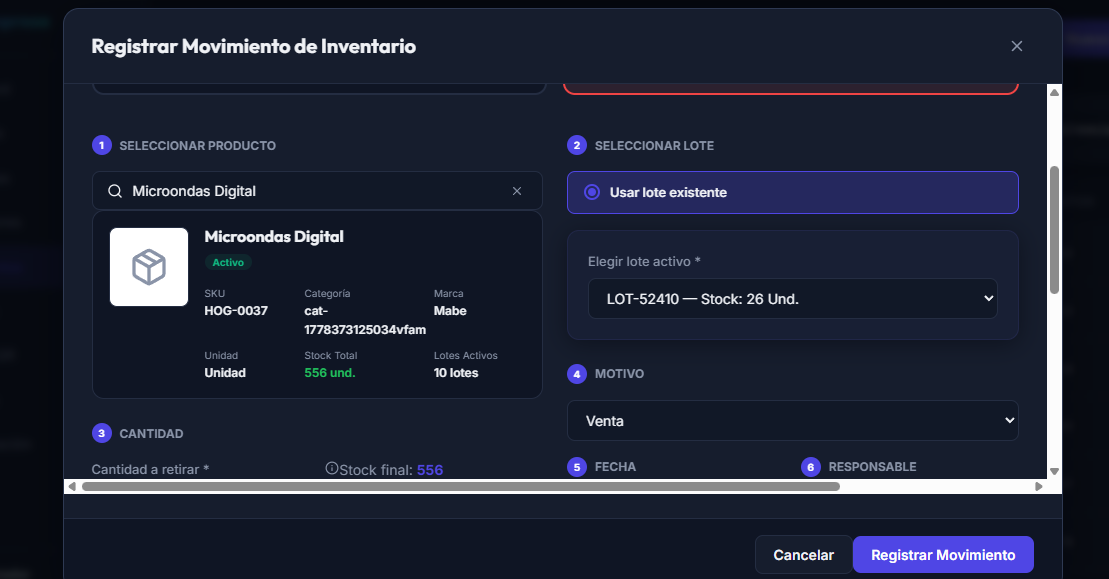
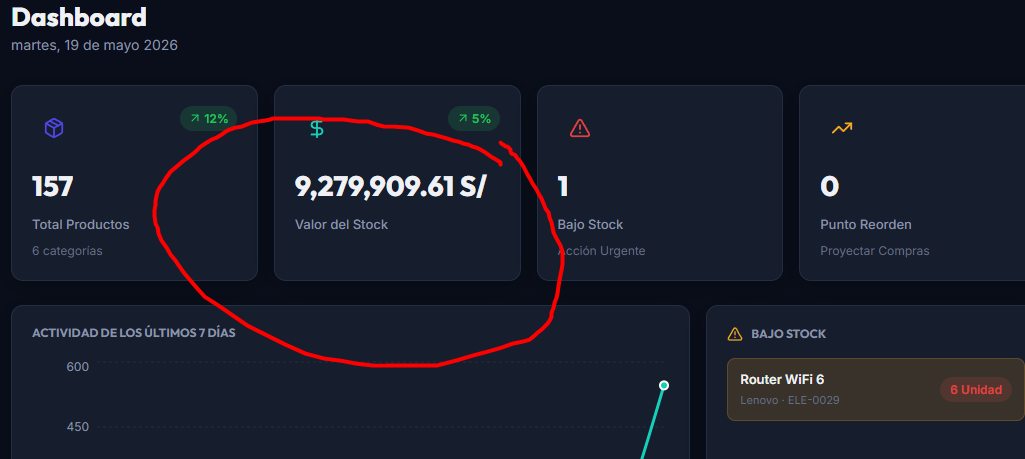
moneda

diff --git a/src/pages/Reports.jsx b/src/pages/Reports.jsx
@@ -43,7 +43,7 @@ const CustomTooltip = ({ active, payload, label }) => {
           {payload.map(p => (
             <p key={p.name} className="tooltip-item">
               <span className="dot" style={{ background: p.color }}></span>
-              {p.name}: <span className="val">{p.name.includes('Valor') || p.name.includes('Precio') ? `${p.value.toLocaleString('es-PE')} S/` : p.value}</span>
+              {p.name}: <span className="val">{p.name.includes('Valor') || p.name.includes('Precio') ? `S/ ${p.value.toLocaleString('es-PE')}` : p.value}</span>
             </p>
           ))}
         </div>
@@ -354,7 +354,7 @@ export default function Reports() {
           </div>
           <div className="kpi-info">
             <span className="kpi-label">Valor del Inventario</span>
-            <span className="kpi-value">{totalValue.toLocaleString('es-PE')} S/</span>
+            <span className="kpi-value">S/ {totalValue.toLocaleString('es-PE')}</span>
             <span className="kpi-trend text-success">Total acumulado</span>
           </div>
         </div>
@@ -436,7 +436,7 @@ export default function Reports() {
               <BarChart data={stockByCategory} margin={{ top: 10, right: 10, left: -10, bottom: 0 }}>
                 <CartesianGrid strokeDasharray="3 3" stroke="var(--border)" vertical={false} />
                 <XAxis dataKey="name" tick={{ fill: 'var(--text-muted)', fontSize: 11 }} axisLine={false} tickLine={false} />
-                <YAxis tick={{ fill: 'var(--text-muted)', fontSize: 11 }} axisLine={false} tickLine={false} tickFormatter={v => `${v > 1000 ? (v/1000).toFixed(0)+'k' : v} S/`} />
+                <YAxis tick={{ fill: 'var(--text-muted)', fontSize: 11 }} axisLine={false} tickLine={false} tickFormatter={v => `S/ ${v > 1000 ? (v/1000).toFixed(0)+'k' : v}`} />
                 <Tooltip content={<CustomTooltip />} />
                 <Bar dataKey="Valor" fill="var(--primary)" radius={[6, 6, 0, 0]}>
                   {stockByCategory.map((_, i) => <Cell key={i} fill={CHART_COLORS[i % CHART_COLORS.length]} />)}
@@ -517,7 +517,7 @@ export default function Reports() {
                       <td className="text-muted">{p.leadTime || 0} días</td>
                       <td className="fw-700 text-primary">{p.effectiveMin} {abreviar(p.unit)}</td>
                       <td className="text-danger fw-700">{missing} {abreviar(p.unit)}</td>
-                      <td className="fw-700">{(missing * p.price).toLocaleString('es-PE')} S/</td>
+                      <td className="fw-700">S/ {(missing * p.price).toLocaleString('es-PE')}</td>
                     </tr>
                   );
                 })}
@@ -565,8 +565,8 @@ export default function Reports() {
                         ) : '—'}
                       </td>
                       <td className="fw-700">{p.totalStock} {abreviar(p.unit)}</td>
-                      <td>{(p.price || 0).toLocaleString('es-PE')} S/</td>
-                      <td className="fw-700 text-danger">{(p.totalStock * p.price).toLocaleString('es-PE')} S/</td>
+                      <td>S/ {(p.price || 0).toLocaleString('es-PE')}</td>
+                      <td className="fw-700 text-danger">S/ {(p.totalStock * p.price).toLocaleString('es-PE')}</td>
                       <td><span className="badge badge-muted">SIN ROTACIÓN</span></td>
                     </tr>
                   );

diff --git a/src/pages/StockMovements.jsx b/src/pages/StockMovements.jsx
@@ -160,10 +160,10 @@ function TicketModal({ ticketData, onClose, shopName }) {
 
               <div style={{ borderTop: '1px double #000', marginTop: '10px', paddingTop: '8px' }}>
                 <div style={{ display: 'flex', justifyContent: 'space-between', fontSize: '11px', marginBottom: '3px' }}>
-                  <span>Subtotal:</span><span>{total.toFixed(2)} S/</span>
+                  <span>Subtotal:</span><span>S/ {total.toFixed(2)}</span>
                 </div>
                 <div style={{ display: 'flex', justifyContent: 'space-between', fontSize: '16px', fontWeight: 900, marginTop: '4px' }}>
-                  <span>TOTAL:</span><span>{total.toFixed(2)} S/</span>
+                  <span>TOTAL:</span><span>S/ {total.toFixed(2)}</span>
                 </div>
               </div>
 
@@ -485,10 +485,10 @@ function MovementModal({ products, suppliers, onSave, onDelete, onClose, editDat
                   <div className="auto-summary-box mt-20">
                     <div className="preview-label mb-12">RESUMEN AUTOMÁTICO</div>
                     <div className="summary-row"><span>Cantidad</span><span className="fw-700">{form.quantity || 0}</span></div>
-                    <div className="summary-row"><span>Precio unitario</span><span>{(parseFloat(form.newBatchPrice) || selectedProductBase?.price || 0).toFixed(2)} S/</span></div>
+                    <div className="summary-row"><span>Precio unitario</span><span>S/ {(parseFloat(form.newBatchPrice) || selectedProductBase?.price || 0).toFixed(2)}</span></div>
                     <div className="summary-total">
                       <span className="total-label">TOTAL</span>
-                      <span className="total-val">{totalCalculated.toLocaleString('es-PE', { minimumFractionDigits: 2 })} S/</span>
+                      <span className="total-val">S/ {totalCalculated.toLocaleString('es-PE', { minimumFractionDigits: 2 })}</span>
                     </div>
                   </div>
                 </div>

diff --git a/src/pages/Dashboard.jsx b/src/pages/Dashboard.jsx
@@ -93,7 +93,7 @@ export default function Dashboard() {
       {/* Stats */}
       <div className="stats-grid mb-24">
         <StatCard icon={Package} label="Total Productos" value={products.length} sub={`${categories.length} categorías`} color="var(--primary)" trend={12} />
-        <StatCard icon={DollarSign} label="Valor del Stock" value={`${totalValue.toLocaleString('es-PE', { minimumFractionDigits: 2 })} S/`} color="var(--accent)" trend={5} />
+        <StatCard icon={DollarSign} label="Valor del Stock" value={`S/ ${totalValue.toLocaleString('es-PE', { minimumFractionDigits: 2 })}`} color="var(--accent)" trend={5} />
         <StatCard icon={AlertTriangle} label="Bajo Stock" value={lowStockProducts.length} sub="Acción Urgente" color="var(--danger)" />
         <StatCard icon={TrendingUp} label="Punto Reorden" value={reorderProducts.length} sub="Proyectar Compras" color="var(--warning)" />
       </div>

diff --git a/src/pages/Inventory.jsx b/src/pages/Inventory.jsx
@@ -670,7 +670,7 @@ export default function Inventory() {
                     {g.totalStock || 0}
                   </td>
                   <td className="text-muted">{p.minStock || 0}</td>
-                  <td className="fw-600">{(p.price || 0).toLocaleString('es-PE', { minimumFractionDigits: 2 })} S/</td>
+                  <td className="fw-600">S/ {(p.price || 0).toLocaleString('es-PE', { minimumFractionDigits: 2 })}</td>
                   <td>
                     {hasMultipleBatches ? (
                       <span className="batch-indicator">

diff --git a/src/pages/Scanner.jsx b/src/pages/Scanner.jsx
@@ -107,7 +107,7 @@ export default function Scanner() {
                     </div>
                     <div className="result-stat">
                       <span className="result-stat-label">Precio</span>
-                      <span className="result-stat-value">{result.price?.toLocaleString('es-PE')} S/</span>
+                      <span className="result-stat-value">S/ {result.price?.toLocaleString('es-PE')}</span>
                     </div>
                     <div className="result-stat">
                       <span className="result-stat-label">Estado</span>